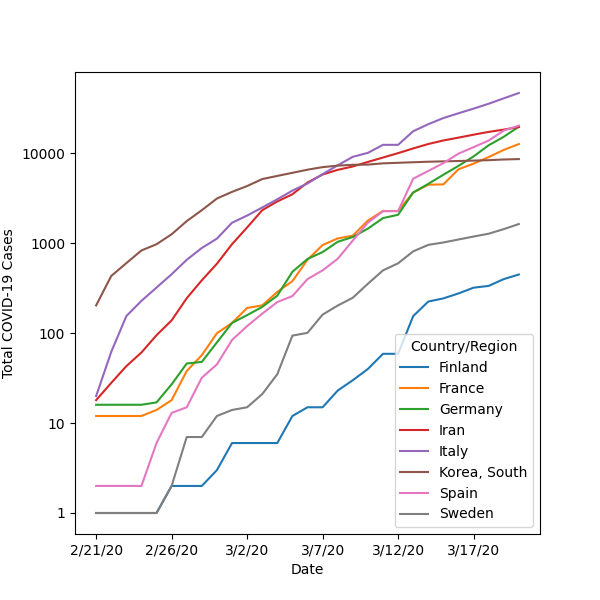
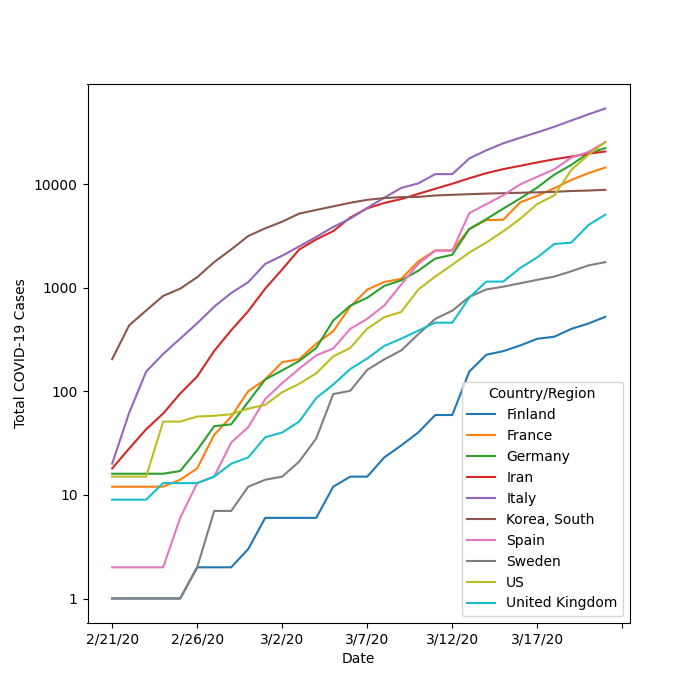
Fix misplaced comma
This caused UK and US to not render at all.

diff --git a/plot.py b/plot.py
@@ -15,8 +15,8 @@ countries = [
     'Korea, South',
     'Spain',
     'Sweden',
-    'US'
-    'United Kingdom',
+    'US',
+    'United Kingdom'
 ]
 
 url = "https://github.com/CSSEGISandData/COVID-19/raw/master/csse_covid_19_data/csse_covid_19_time_series/time_series_19-covid-Confirmed.csv"
@@ -29,7 +29,7 @@ fig = pd.read_csv(url) \
     .set_index("Country/Region") \
     .T \
     .iloc[dskip:] \
-    .plot(figsize=(6,6))
+    .plot(figsize=(7,7))
 
 plt.xlabel("Date")
 plt.ylabel("Total COVID-19 Cases")
